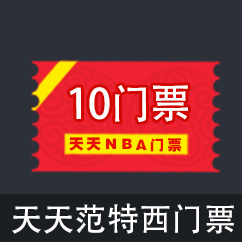
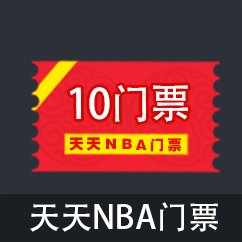
样式调整

Changed region(s): [[0.0579, 0.8388, 0.9835, 0.9835]]

diff --git a/app/vote/vote.html b/app/vote/vote.html
@@ -12,13 +12,14 @@
             <!--ui-sref="info({playerId: player.playerId})"-->
             <!--style="width: 50%;" class="float-left" alt="">-->
 
-            <img ng-src="{{player.portrait}}" ui-sref="info({playerId: player.playerId})" style="width: 60%; margin-left: 10%" alt="">
+            <img ng-src="{{player.portrait}}" ui-sref="info({playerId: player.playerId})"
+                 style="width: 60%; margin-left: 10%" alt="">
 
             <img ng-click="vote(player.playerId, $event)" src="../../public/img/vote/vote.png"
                  ng-if="!voted(player.playerId)"
-                 style="width: 12%; min-width: 60px; margin-top: 18%; margin-left: -26%;">
+                 style="width: 12%; min-width: 60px; margin-top: 18%; margin-left: -32%;">
             <img src="../../public/img/vote/voted.png" ng-if="voted(player.playerId)"
-                 style="width: 12%; min-width: 60px; margin-top: 18%; margin-left: -26%;">
+                 style="width: 12%; min-width: 60px; margin-top: 18%; margin-left: -32%;">
 
             <!--<div class="float-left" style="margin-left: -36px; padding-top: 8px; width: 50%">-->
 
@@ -70,11 +71,13 @@
                             <div class="award-div" ng-class="{'score': prize.score === 7 }"></div>
                         </td>
                         <td class="award-td" style="top: 1px; left: 5px;">
-                            <button ng-if="hasPrized() != 3" style="outline: none; border: 0 none; background: transparent"
+                            <button ng-if="hasPrized() != 3"
+                                    style="outline: none; border: 0 none; background: transparent"
                                     type="button" ng-click="start()">
                                 <img style="width: 90px;" src="../../public/img/vote/startPrize.png" alt="">
                             </button>
-                            <button ng-if="hasPrized() == 3" style="outline: none; border: 0 none; background: transparent"
+                            <button ng-if="hasPrized() == 3"
+                                    style="outline: none; border: 0 none; background: transparent"
                                     type="button" ng-click="start()">
                                 <img style="width: 90px;" src="../../public/img/vote/prized.png" alt="">
                             </button>
@@ -116,6 +119,8 @@
         </marquee>
     </div>
 
-    <img src="../../public/img/vote/rule.png" class="full" alt="">
+    <div class="text-center">
+        <img src="http://img.sillyfan.top/vote/rule.png" style="width: 80%;" alt="">
+    </div>
 
 </div>

diff --git a/app/vote/vote.controller.js b/app/vote/vote.controller.js
@@ -97,7 +97,7 @@
                 {id: 3, name: "未中奖"},
                 {id: 4, name: "卡通定制T恤"},
                 {id: 5, name: "NBA纪念邮票"},
-                {id: 6, name: "天天范特西门票"},
+                {id: 6, name: "天天NBA门票"},
                 {id: 7, name: "卡通限量眼镜"}
             ]
         };

diff --git a/public/index.controller.js b/public/index.controller.js
@@ -76,8 +76,6 @@
                 imgUrl: 'http://img.sillyfan.top/logo.png',
                 success: function () {
 
-                    alert('success');
-
                     var shared = localStorage.getItem("share");
 
                     if (shared && Number(shared) === new Date().getDate()) {
